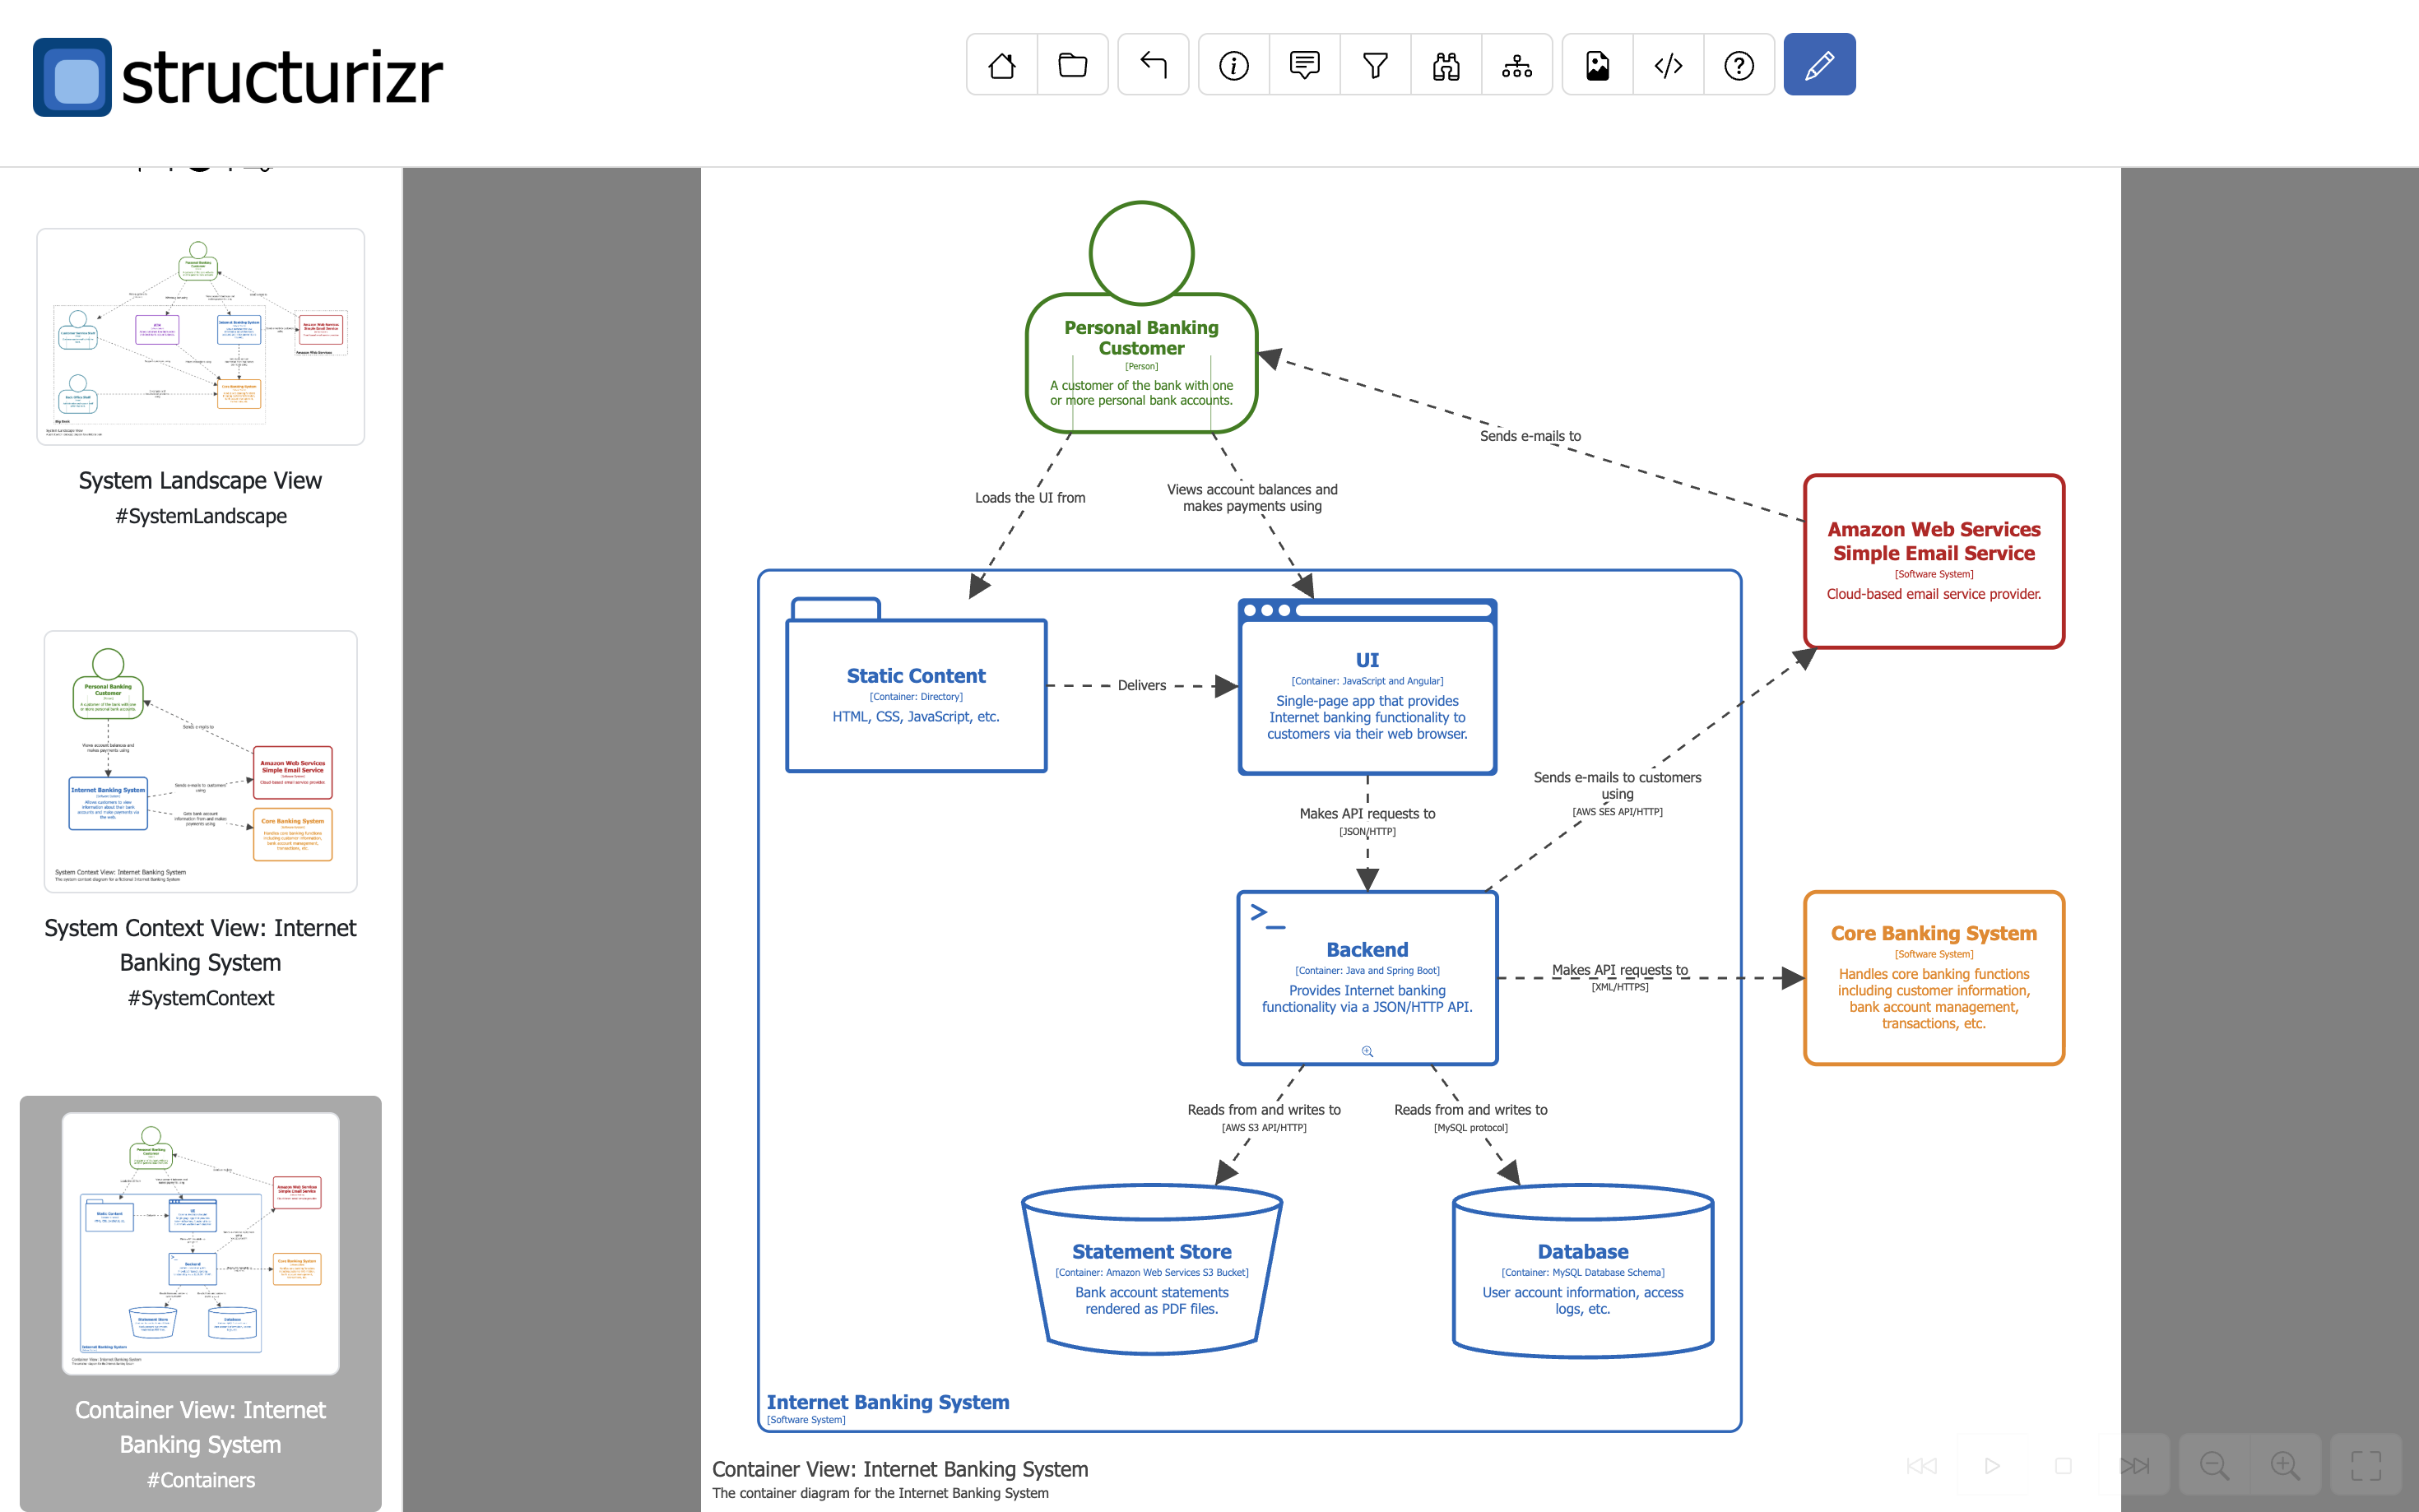
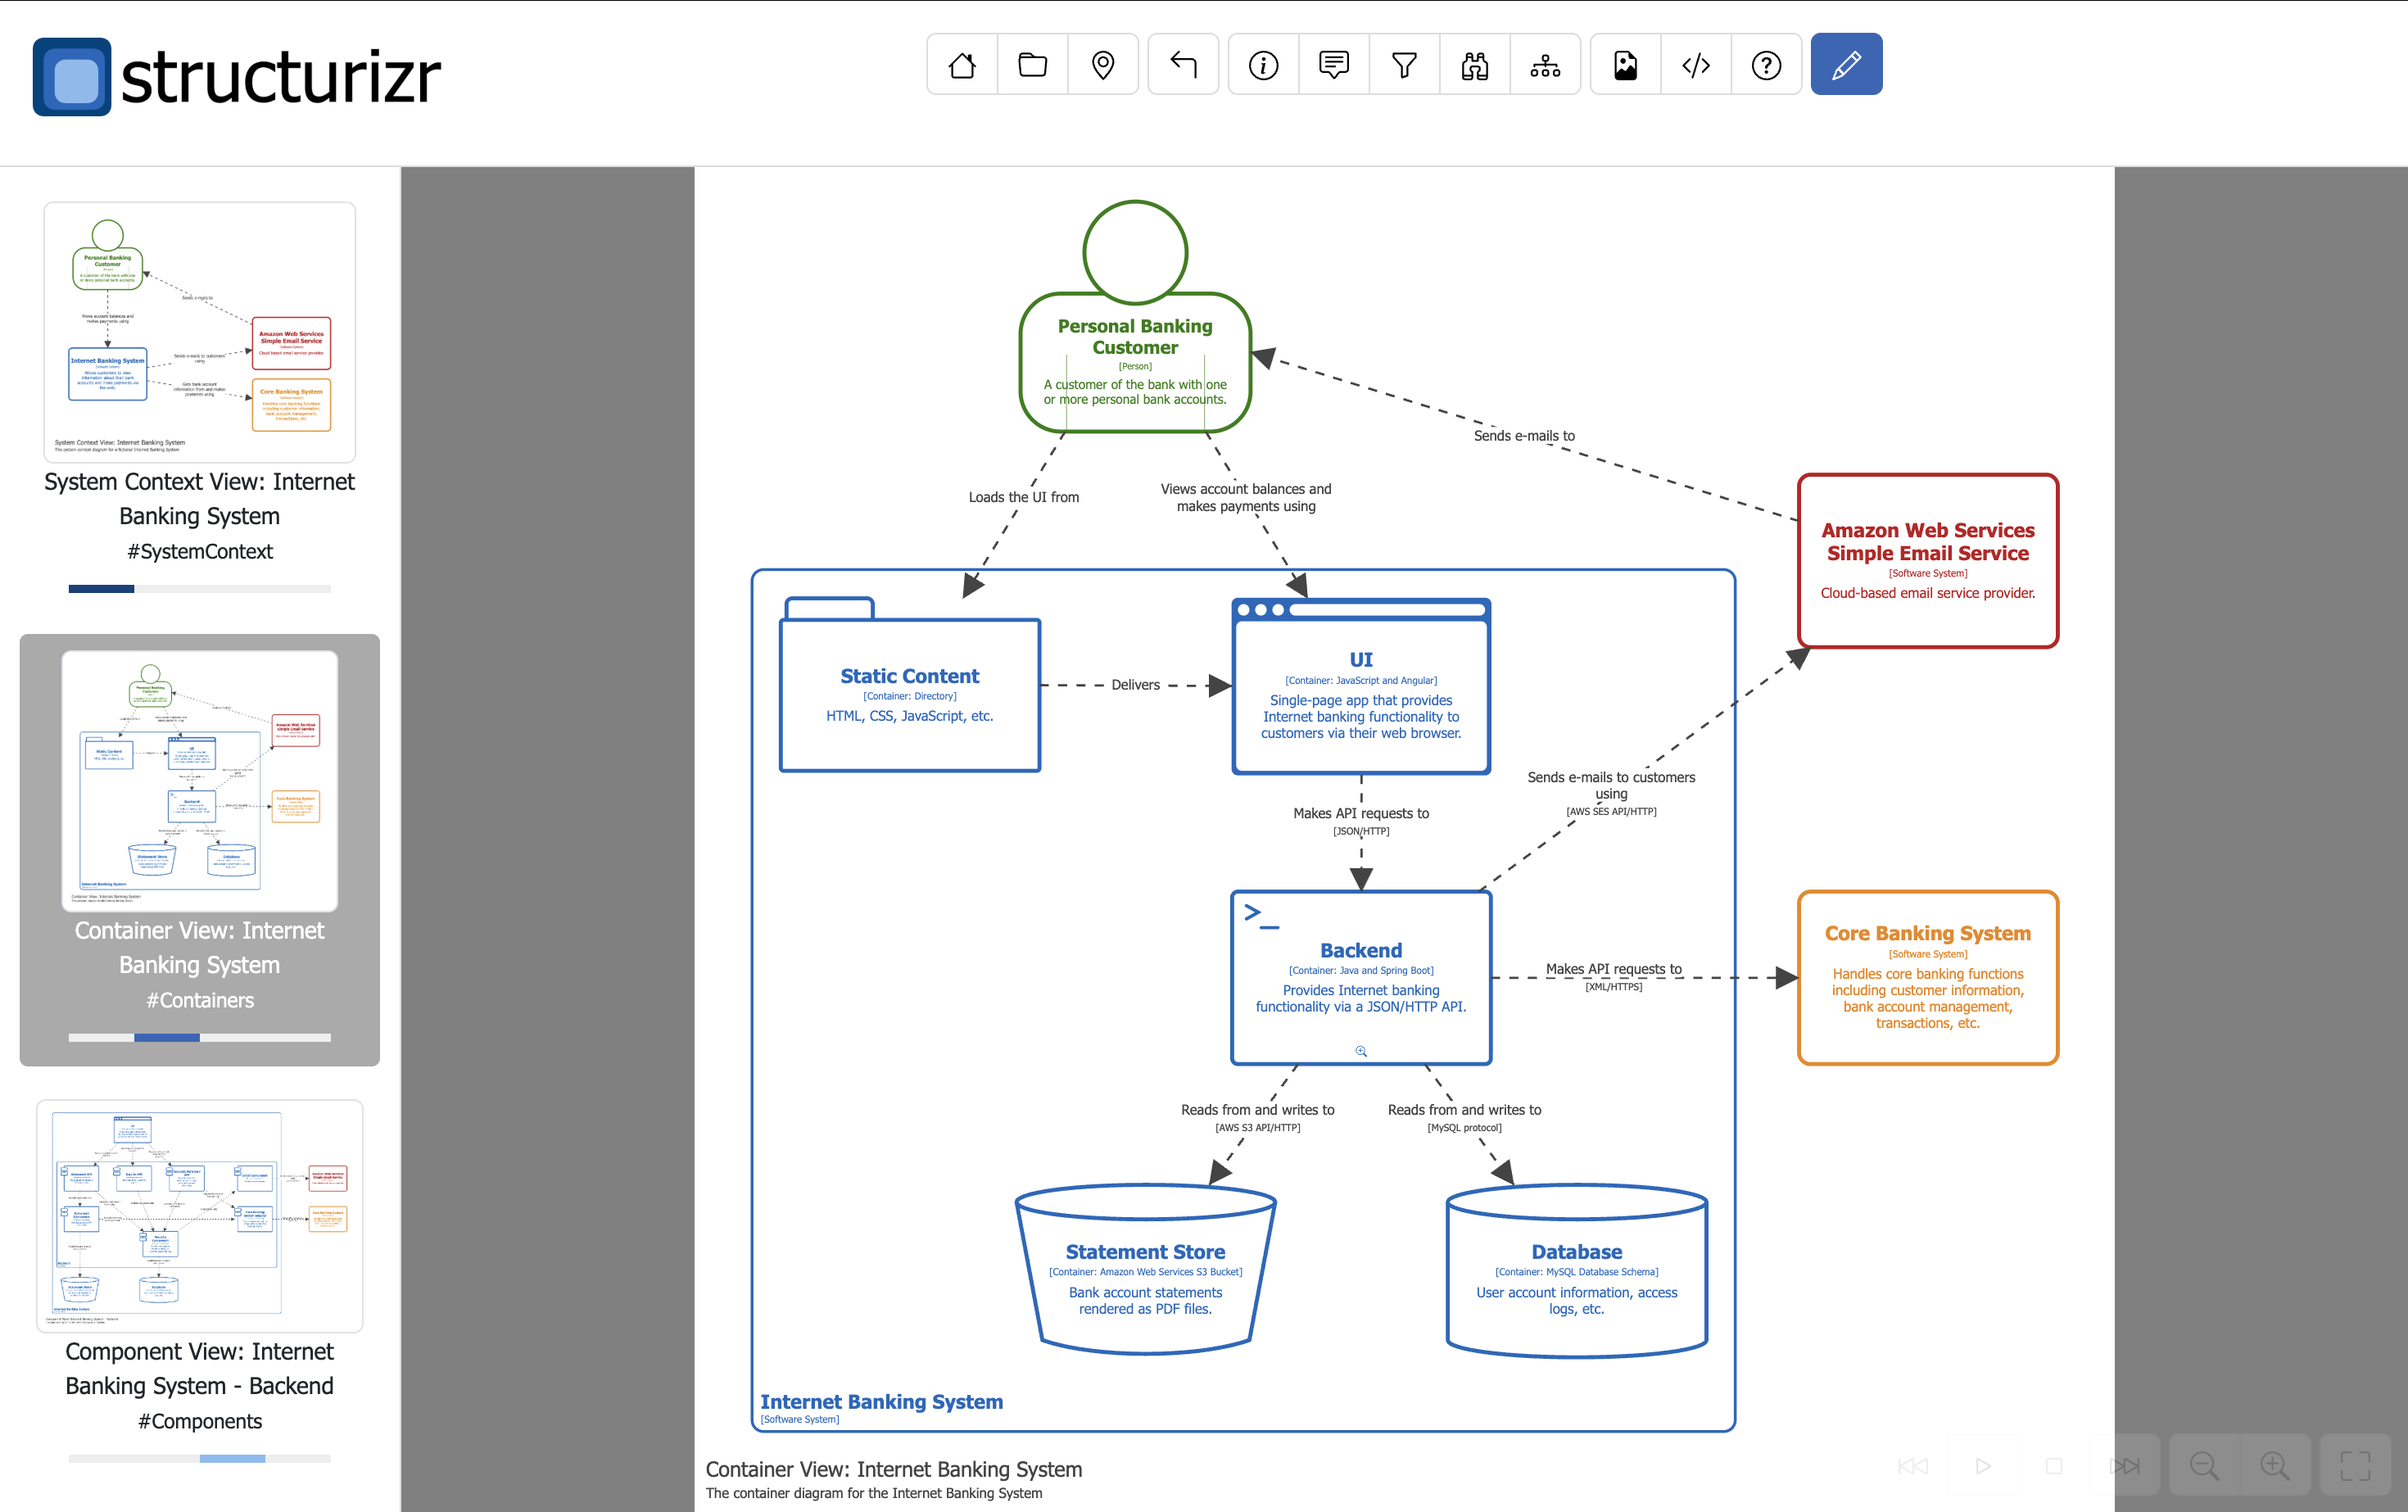
Updates docs following release.

diff --git a/commands/17-regenerate-apikey/index.md b/commands/17-regenerate-apikey/index.md
@@ -1,0 +1,27 @@
+---
+layout: default
+parent: Commands
+title: regenerate-apikey
+nav_order: 17
+has_children: false
+permalink: /regenerate-apikey
+has_toc: false
+---
+
+# regenerate-apikey
+
+The `regenerate-apikey` command provides a way to regenerate the API key for a Structurizr [server](/server) workspace.
+
+### Options
+
+- `-id`: The workspace ID (required)
+- `-key`: The workspace or admin API key (required if authentication is enabled on the server)
+- `-url`: The Structurizr API URL (required)
+
+## Example
+
+To regenerate the API key for a Structurizr workspace:
+
+```
+regenerate-apikey -url https://structurizr.example.com/api -id 1234 -key 1234567890
+```

diff --git a/commands/03-server/21-diagrams/01-viewer.md b/commands/03-server/21-diagrams/01-viewer.md
@@ -15,9 +15,9 @@ permalink: /server/diagrams/viewer
 
 - ![](/images/bootstrap-icons/house.svg) Home.
 - ![](/images/bootstrap-icons/folder.svg) Workspace summary.
-- ![](/images/bootstrap-icons/arrow-90deg-left.svg) Previous diagram.
+- ![](/images/bootstrap-icons/geo-alt.svg) [Diagram navigator](#diagram-navigator).
 - ![](/images/bootstrap-icons/info-circle.svg) Diagram key.
-- ![](/images/bootstrap-icons/chat-square-text.svg) Toggle tTooltips on/off.
+- ![](/images/bootstrap-icons/chat-square-text.svg) Toggle tooltips on/off.
 - ![](/images/bootstrap-icons/funnel.svg) Filter by user-defined tags.
 - ![](/images/bootstrap-icons/binoculars.svg) Filter by perspective.
 - ![](/images/bootstrap-icons/diagram-3.svg) Open graph exploration.
@@ -58,11 +58,27 @@ permalink: /server/diagrams/viewer
 - `Right arrow` Navigate to the previous diagram.
 - `b` Go back to the last viewed diagram.
 - `Space` open quick navigation.
+- `l`: Open the [diagram navigator](#diagram-navigator).
 
 Animation (static diagrams with animations, and dynamic diagrams):
 
 - `.` Step forward.
 - `,` Step backward.
+
+## Diagram level indicator
+
+The thumbnails in the navigation include a diagram level indicator as follows:
+
+1. System landscape diagrams, system context diagrams, unscoped dynamic diagrams, deployment diagrams without containers, unscoped image views.
+2. Container diagrams, software system scoped dynamic diagrams, deployment diagrams with containers, software system scoped image views.
+3. Component diagrams, container scoped dynamic diagrams, container scoped image views.
+4. Component scoped image views.
+
+## Diagram navigator
+
+The diagram navigator provides a way to see which diagrams in the workspace sit "above", "next to", and "below" the current diagram.
+
+![Structurizr diagram navigator](/images/diagram-navigator.png)
 
 ## Diagram order
 

diff --git a/binaries.md b/binaries.md
@@ -1,24 +1,24 @@
 ---
 layout: default
 permalink: /binaries
-title: Prebuilt binaries
+title: Binaries - v2026.05.16
 nav_order: 9
 ---
 
-# Prebuilt binaries
+# Binaries
 
 Prebuilt binaries are provided as a Docker image and Java .war file.
 All Structurizr [commands](/commands) are free to use from these binaries except for [server](/server), which requires a license (see [pricing](/server/pricing)).
 
-- Latest release: 2026.04.19
+- Latest release: 2026.05.16
 
 ## Docker image
 
 - Requires Docker
 - Image name: [structurizr/structurizr](https://hub.docker.com/r/structurizr/structurizr)
 - Tags:
-  - `2026.04.19` and `latest`: [Hardened Eclipse Temurin 21 - Alpine](https://hub.docker.com/hardened-images/catalog/dhi/eclipse-temurin) base image for general production use.
-  - `2026.04.19-playwright`: Non-hardened [Playwright for Java - Noble](https://mcr.microsoft.com/en-us/artifact/mar/playwright/java) base image that includes the Microsoft Playwright dependencies required to use the PNG/SVG export feature.
+  - `2026.05.16` and `latest`: [Hardened Eclipse Temurin 21 - Alpine](https://hub.docker.com/hardened-images/catalog/dhi/eclipse-temurin) base image for general production use.
+  - `2026.05.16-playwright`: Non-hardened [Playwright for Java - Noble](https://mcr.microsoft.com/en-us/artifact/mar/playwright/java) base image that includes the Microsoft Playwright dependencies required to use the PNG/SVG export feature.
   - `preview`: Non-hardened [Playwright for Java - Noble](https://mcr.microsoft.com/en-us/artifact/mar/playwright/java) base image, not intended for production use.
 
 Pull the latest version of the Docker image:
@@ -39,8 +39,8 @@ In this example, `$PWD` will mount the current local directory as the working di
 
 - Requires Java 21
 - Downloads:
-  - [structurizr-2026.04.19.war](https://download.structurizr.com/structurizr-2026.04.19.war) and [structurizr.war](https://download.structurizr.com/structurizr.war): Excludes Microsoft Playwright dependencies.
-  - [structurizr-2026.04.19-playwright.war](https://download.structurizr.com/structurizr-2026.04.19-playwright.war): Includes Microsoft Playwright dependencies.
+  - [structurizr-2026.05.16.war](https://download.structurizr.com/structurizr-2026.05.16.war) and [structurizr.war](https://download.structurizr.com/structurizr.war): Excludes Microsoft Playwright dependencies.
+  - [structurizr-2026.05.16-playwright.war](https://download.structurizr.com/structurizr-2026.05.16-playwright.war): Includes Microsoft Playwright dependencies.
   - [structurizr-preview.war](https://download.structurizr.com/structurizr-preview.war): A preview build, includes Microsoft Playwright dependencies, not intended for production use.
 
 Download the file, either by clicking the link above or via the command line:

diff --git a/commands/03-server/21-diagrams/02-editor.md b/commands/03-server/21-diagrams/02-editor.md
@@ -38,8 +38,7 @@ By default, the diagram will stay centred when using the decrease and increase c
 
 ## Elements
 
-There are a number of toolbar buttons that become enabled when you multi-select elements, which you can do by holding
-the `Alt` or `Shift` key while clicking an element, or by using the lasso tool. The following buttons allow you to align all selected elements with reference to the first element that was selected.
+There are a number of toolbar buttons that become enabled when you multi-select elements, which you can do by holding the `Alt` or `Shift` key while clicking an element, or by using the lasso tool. The following buttons allow you to align all selected elements with reference to the first element that was selected.
 
 - ![](/images/bootstrap-icons/align-start.svg) Align selected elements left.
 - ![](/images/bootstrap-icons/align-middle.svg) Align selected elements centre.
@@ -58,6 +57,17 @@ Finally, selected elements can be evenly distributed using the following buttons
 - ![](/images/bootstrap-icons/distribute-vertical.svg) Distribute selected elements vertically.
 
 To bring all elements back on to the diagram canvas, open the automatic layout modal and click the ![](/images/bootstrap-icons/magnet.svg) button.
+
+The following keyboard shortcuts for the element alignment and distribution tools are available when two or more elements are selected:
+
+- `l`: Align selected elements left.
+- `c`: Align selected elements centre.
+- `r`: Align selected elements right.
+- `h`: Distribute selected elements horizontally.
+- `t`: Align selected elements top.
+- `m`: Align selected elements middle.
+- `b`: Align selected elements bottom.
+- `v`: Distribute selected elements vertically.
 
 ## Relationships
 

diff --git a/commands/16-generate/index.md b/commands/16-generate/index.md
@@ -10,8 +10,6 @@ has_toc: false
 
 # generate
 
-> This feature is only available by building from source or using the `structurizr/structurizr:preview` Docker image.
-
 ## system-landscape
 
 The `system-landscape` subcommand provides a way to merge a number of workspaces to generate a system landscape workspace.

diff --git a/commands/03-server/51-workspace-api.md b/commands/03-server/51-workspace-api.md
@@ -18,6 +18,7 @@ The Structurizr server provides a JSON/HTTP API for workspaces, with the followi
 - DELETE `/api/workspace/{workspaceId}/lock` (unlock workspace - [unlock](/unlock))
 - PUT `/api/workspace/{workspaceId}/images/{filename}` (put image - [push](/push))
 - PUT `/api/workspace/{workspaceId}/branch/{branch}/images/{filename}` (put image to branch - [push](/push))
+- POST `/api/workspace/{workspaceId}/apikey/regenerate` (regenerate API key - [regenerate-apikey](/regenerate-apikey))
 
 > Please note that the [old CLI](/cli) is not compatible with this new version of the API. 
 

diff --git a/dsl/08-expressions.md b/dsl/08-expressions.md
@@ -30,6 +30,7 @@ and [!relationships](/dsl/language#relationships) keywords to perform bulk opera
 - `element.technology==<technology>`: all elements with the specified technology
 - `element.technology!=<technology>`: all elements without the specified technology
 - `element.properties[name]==value`: all elements that have the specified property with the specified value
+- `element.group==name`: all elements that have the specified group
 - `element==-><identifier>`: the specified element (or group) plus afferent couplings
 - `element==<identifier>->`: the specified element (or group) plus efferent couplings
 - `element==-><identifier>->`: the specified element (or group) plus afferent and efferent couplings